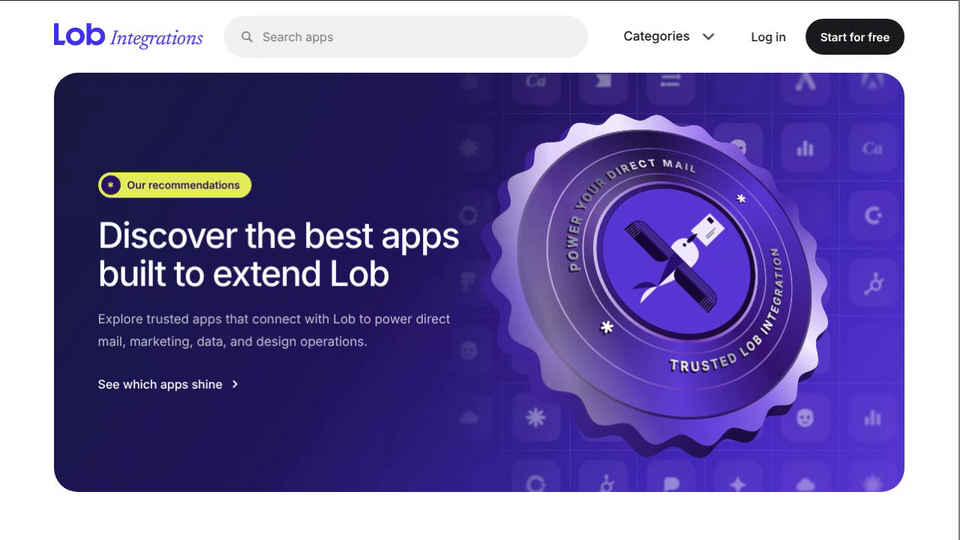
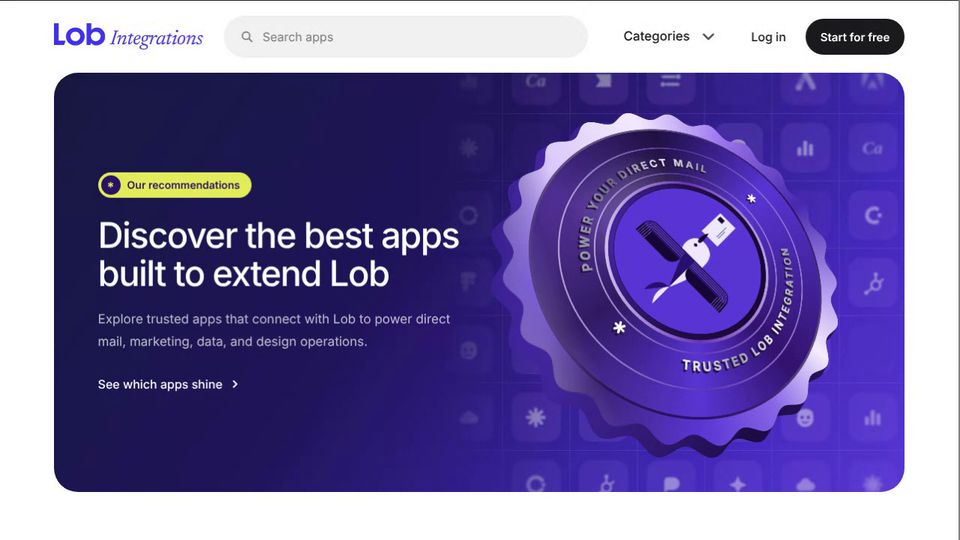
Lob Integrations Hero: badge a little further right
Claude-Session: https://claude.ai/code/session_01AHeBdw5Dmhovddhvfinq8X

Changed region(s): [[0.5, 0.2074, 0.875, 0.8593]]

diff --git a/lob-integrations-hero/index.html b/lob-integrations-hero/index.html
@@ -88,7 +88,7 @@ body[data-look="colour"] .tile .c{display:block}
 .tile.ghost{background:rgba(170,120,245,.1)}
 .veil{position:absolute;inset:0;z-index:2;pointer-events:none;background:radial-gradient(ellipse 60% 60% at 50% 50%,rgba(130,70,220,.3),transparent 70%)}
 
-.slot{position:absolute;inset:0;left:4%;bottom:12%;z-index:3;display:grid;place-items:center;perspective:1300px;pointer-events:none;
+.slot{position:absolute;inset:0;left:9%;bottom:12%;z-index:3;display:grid;place-items:center;perspective:1300px;pointer-events:none;
   transition:opacity .7s ease,transform .9s cubic-bezier(.2,.8,.2,1)}
 
 /* ---- the badge: a stack of layers in 3D (rim thickness, flat metal face, raised lettering and link) ---- */
